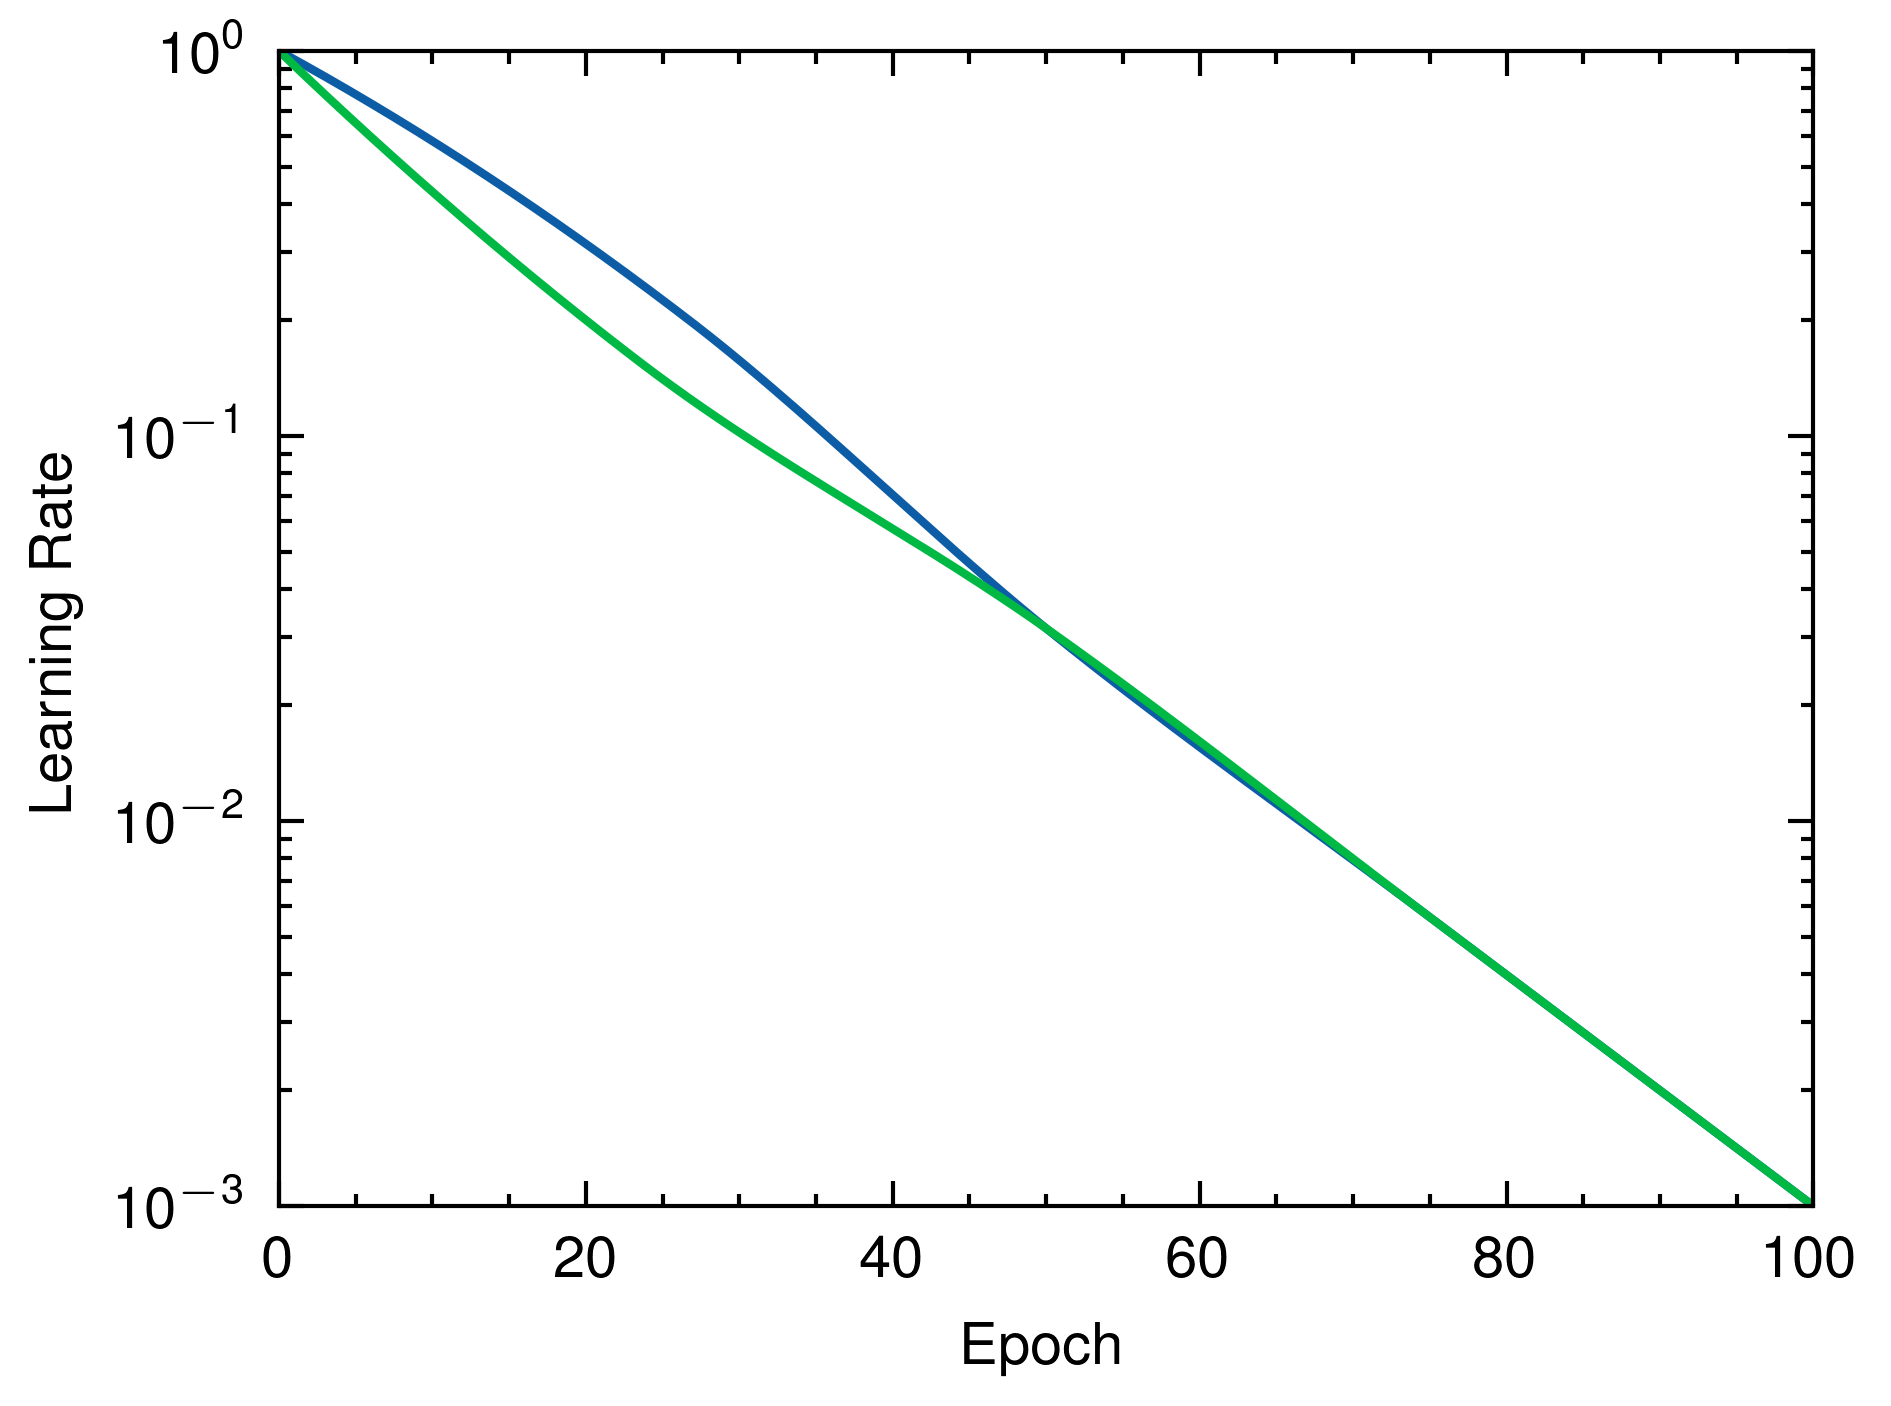
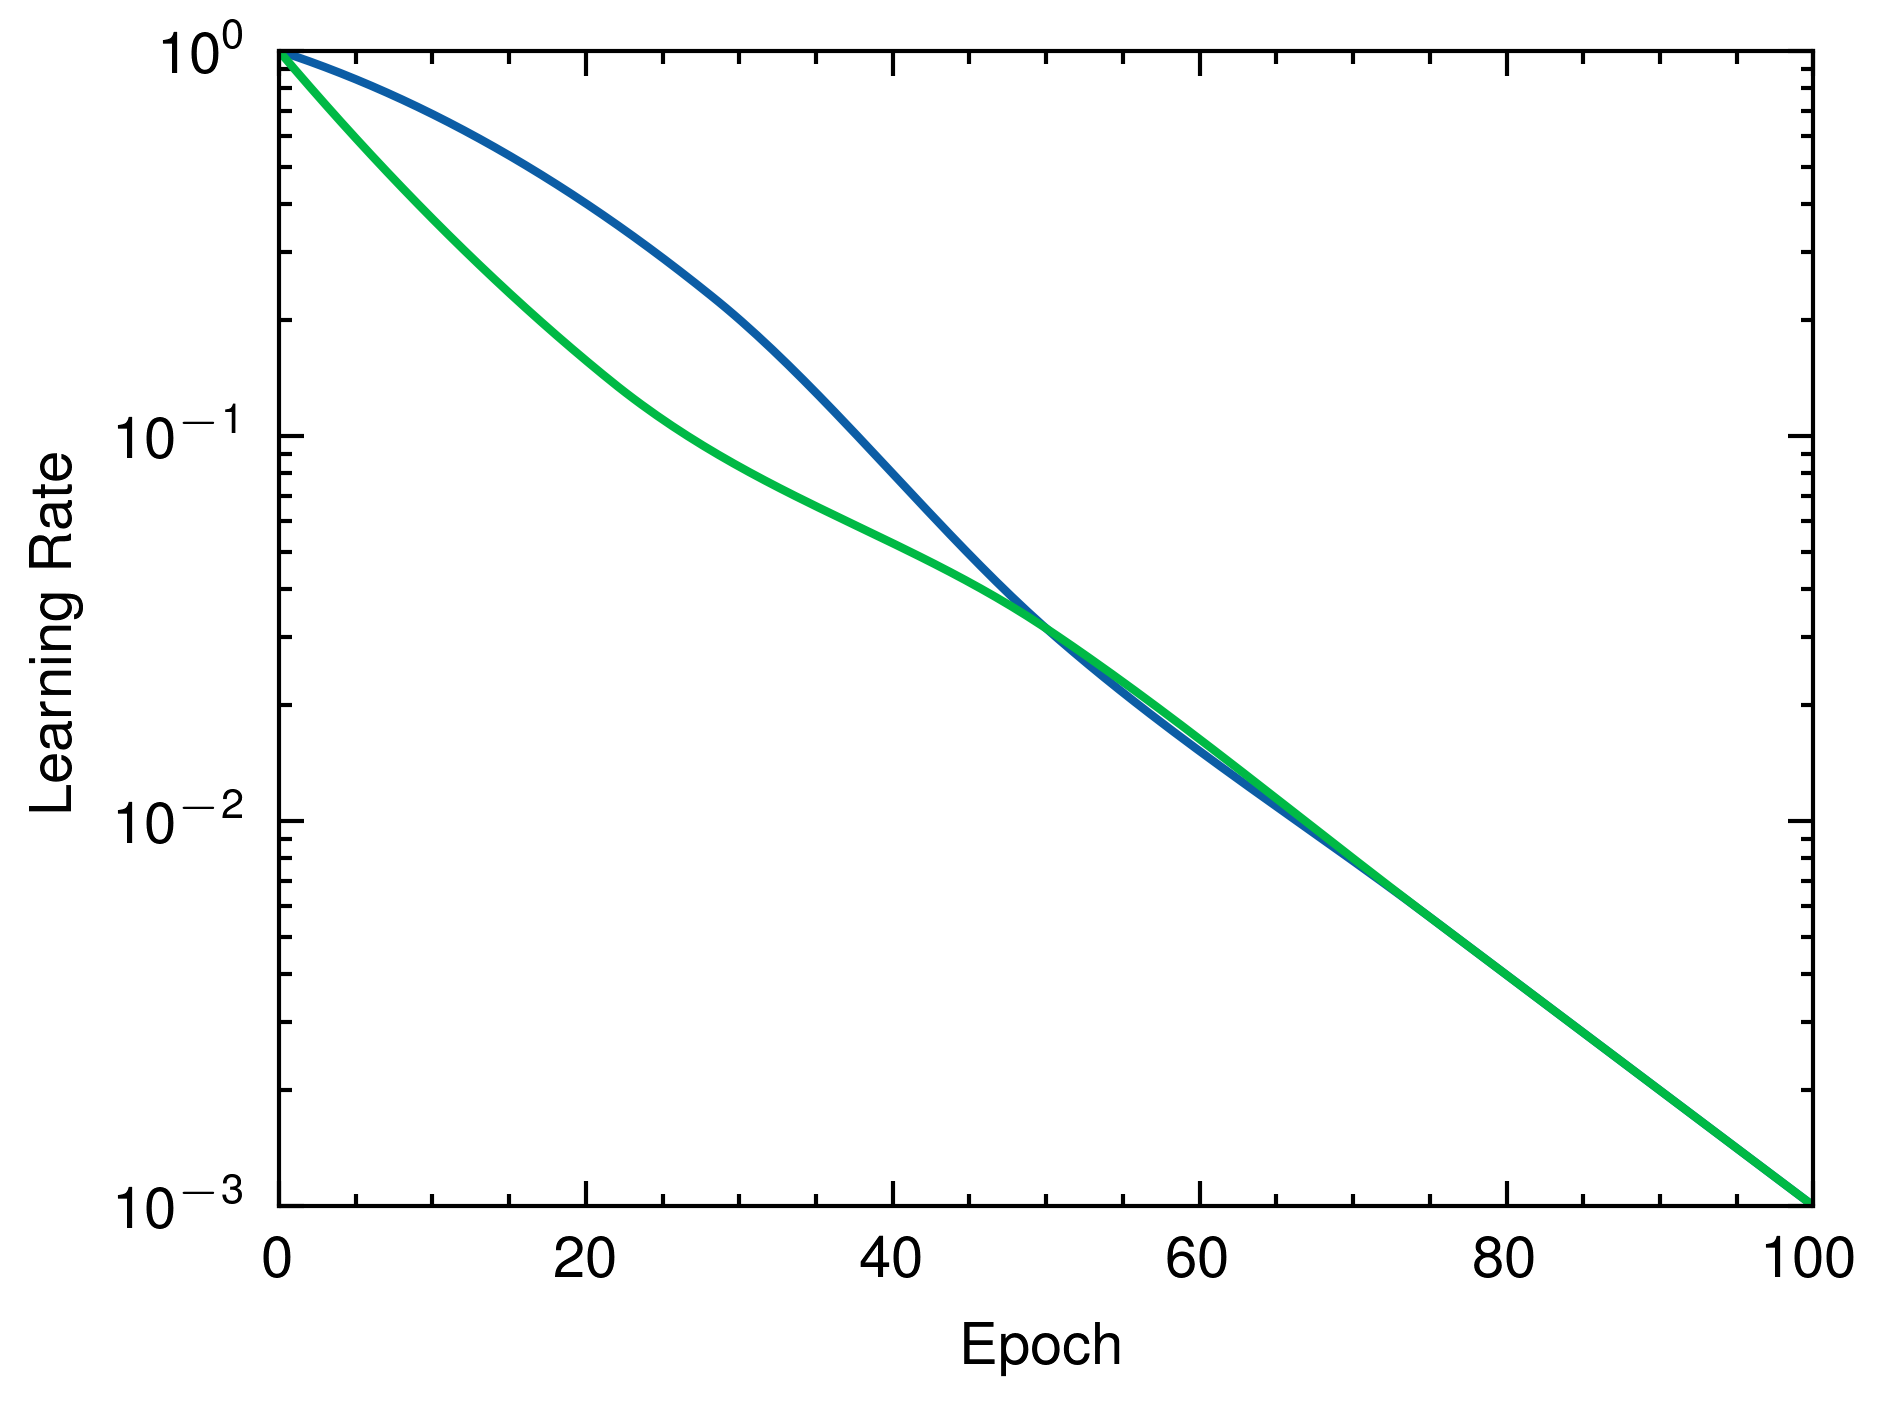
More decouple

diff --git a/src/main.rs b/src/main.rs
@@ -47,7 +47,7 @@ pub struct SplineLR {
 impl SplineLR {
     fn delta_pt(&self) -> (f64, f64) {
         let theta = self.N.atan2(self.init_lr - self.min_lr);
-        let alpha = theta.min(PI / 2.0 - theta) * 0.99;
+        let alpha = theta.min(PI / 2.0 - theta) * 2.0;
         let l = ((self.init_lr - self.min_lr).powi(2) + self.N.powi(2)).sqrt() / 4f64;
     
         (l * alpha.tan() * theta.sin(), l * alpha.tan() * theta.cos())
